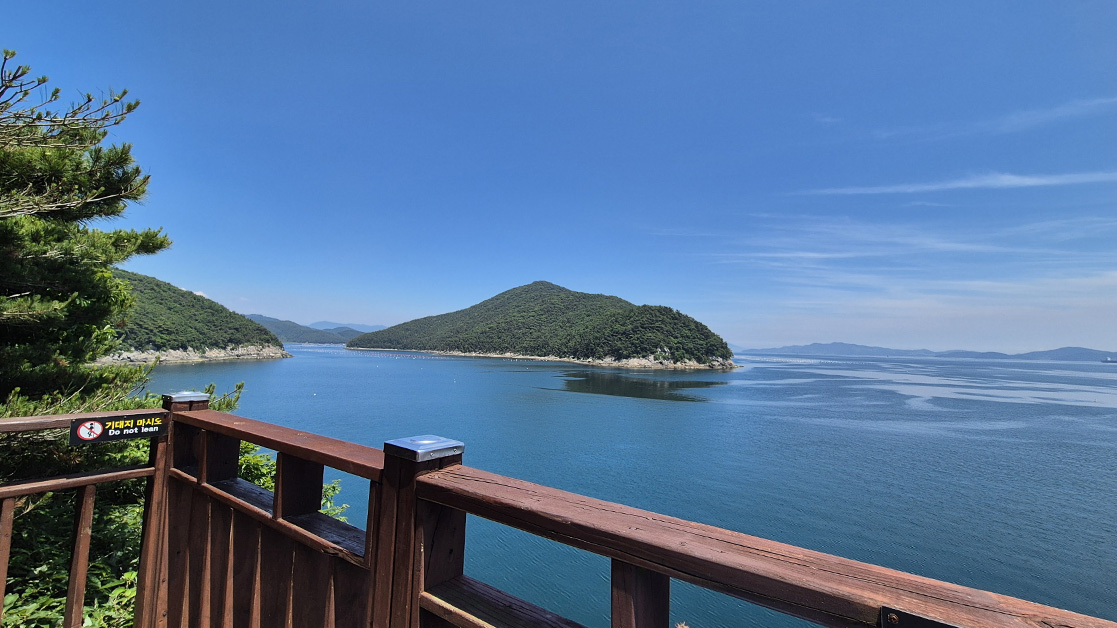
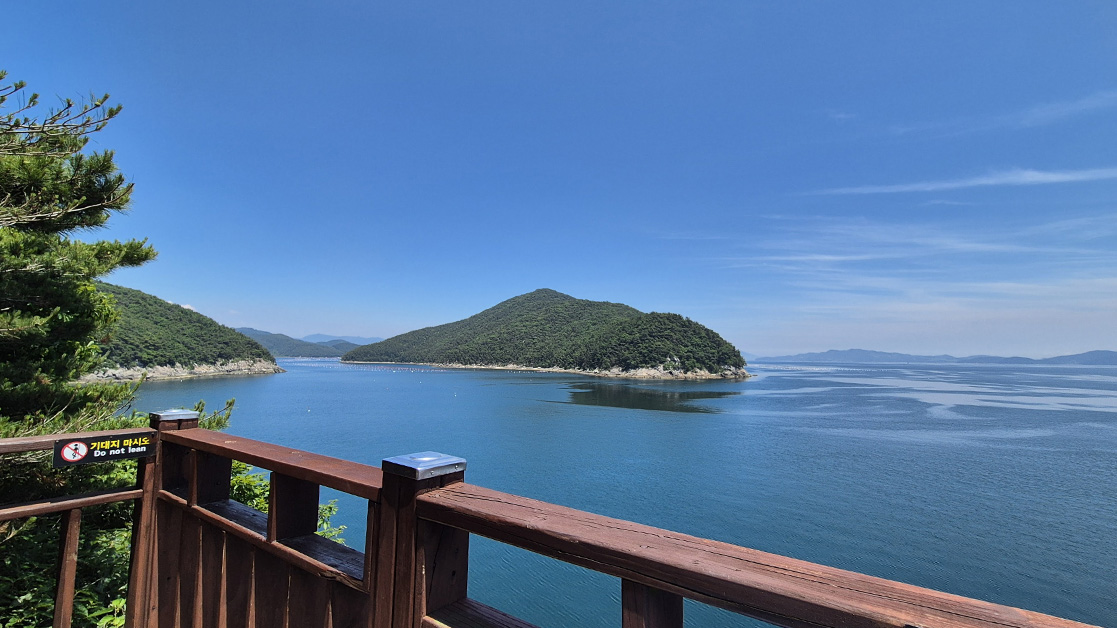
ㅇ

diff --git a/_site/assets/css/style.css b/_site/assets/css/style.css
@@ -467,28 +467,10 @@ font-weight: bold;cursor: pointer;user-select: none; /* 클릭 시 텍스트 블
 
 
 /************************* 📖 출처 표기 영역 스타일 ****************************/
-  .source-citation {
-    text-align: right; 
-    margin-top: 20px; 
-    margin-bottom: 30px; 
-    font-size: 13px; 
-    color: #888; 
-    letter-spacing: -0.5px;
-  }
-  .source-citation span {
-    margin-right: 5px;
-  }
-  .source-citation a {
-    color: #2c6eb5; 
-    text-decoration: none; 
-    border-bottom: 1px solid #2c6eb5; 
-    transition: all 0.2s ease;
-  }
-  /* 마우스를 올렸을 때 링크 강조 효과 */
-  .source-citation a:hover {
-    color: #1a497d;
-    border-bottom-width: 2px;
-  }
+.source-citation { text-align: right; margin-top: 20px; margin-bottom: 30px; font-size: 13px; color: #888; letter-spacing: -0.5px; display: block; clear: both; word-break: keep-all; }
+.source-citation span { margin-right: 5px; }
+.source-citation a { color: #2c6eb5; text-decoration: none; border-bottom: 1px solid #2c6eb5; transition: all 0.2s ease; }
+.source-citation a:hover { color: #1a497d; border-bottom-width: 2px; }
 
 /************************* 🖼️ 캡션(출처/설명)이 포함된 이미지 스타일 ****************************/
   .captioned-figure {

diff --git a/assets/css/style.css b/assets/css/style.css
@@ -467,28 +467,10 @@ font-weight: bold;cursor: pointer;user-select: none; /* 클릭 시 텍스트 블
 
 
 /************************* 📖 출처 표기 영역 스타일 ****************************/
-  .source-citation {
-    text-align: right; 
-    margin-top: 20px; 
-    margin-bottom: 30px; 
-    font-size: 13px; 
-    color: #888; 
-    letter-spacing: -0.5px;
-  }
-  .source-citation span {
-    margin-right: 5px;
-  }
-  .source-citation a {
-    color: #2c6eb5; 
-    text-decoration: none; 
-    border-bottom: 1px solid #2c6eb5; 
-    transition: all 0.2s ease;
-  }
-  /* 마우스를 올렸을 때 링크 강조 효과 */
-  .source-citation a:hover {
-    color: #1a497d;
-    border-bottom-width: 2px;
-  }
+.source-citation { text-align: right; margin-top: 20px; margin-bottom: 30px; font-size: 13px; color: #888; letter-spacing: -0.5px; display: block; clear: both; word-break: keep-all; }
+.source-citation span { margin-right: 5px; }
+.source-citation a { color: #2c6eb5; text-decoration: none; border-bottom: 1px solid #2c6eb5; transition: all 0.2s ease; }
+.source-citation a:hover { color: #1a497d; border-bottom-width: 2px; }
 
 /************************* 🖼️ 캡션(출처/설명)이 포함된 이미지 스타일 ****************************/
   .captioned-figure {